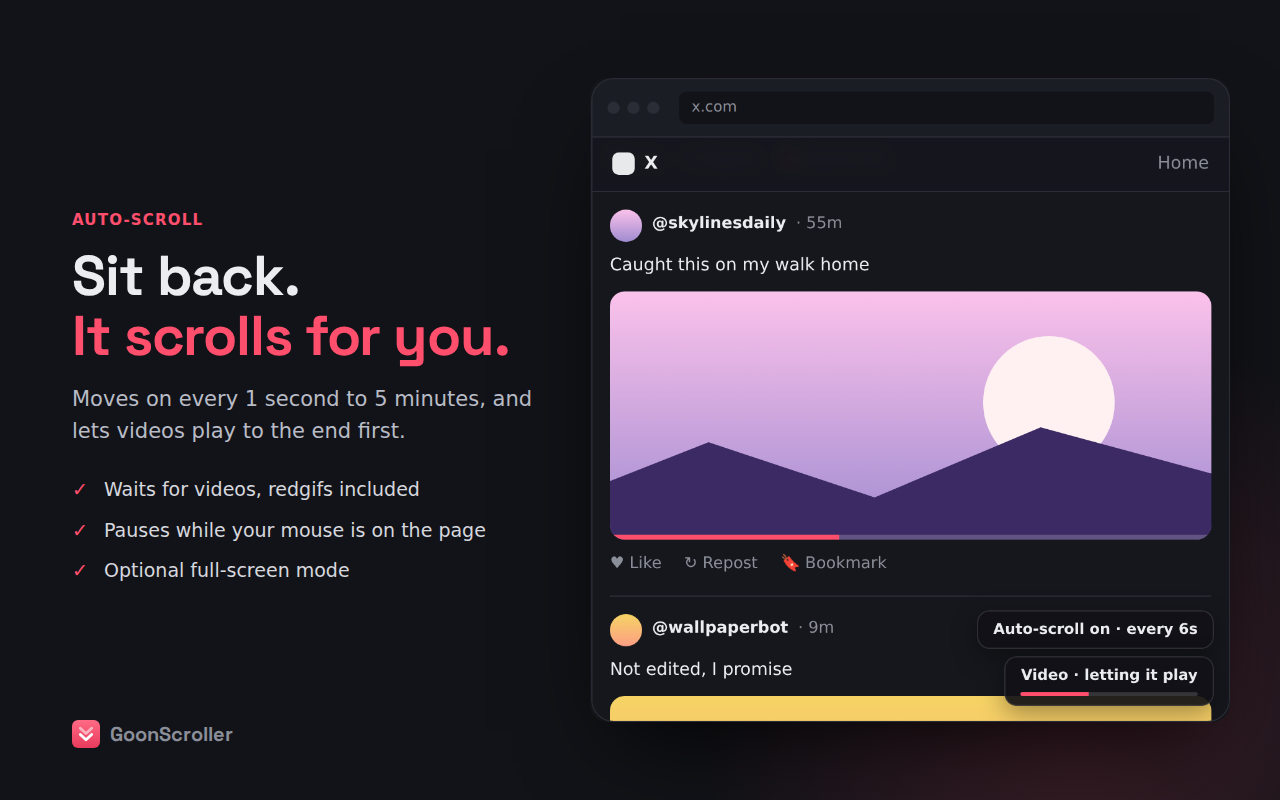
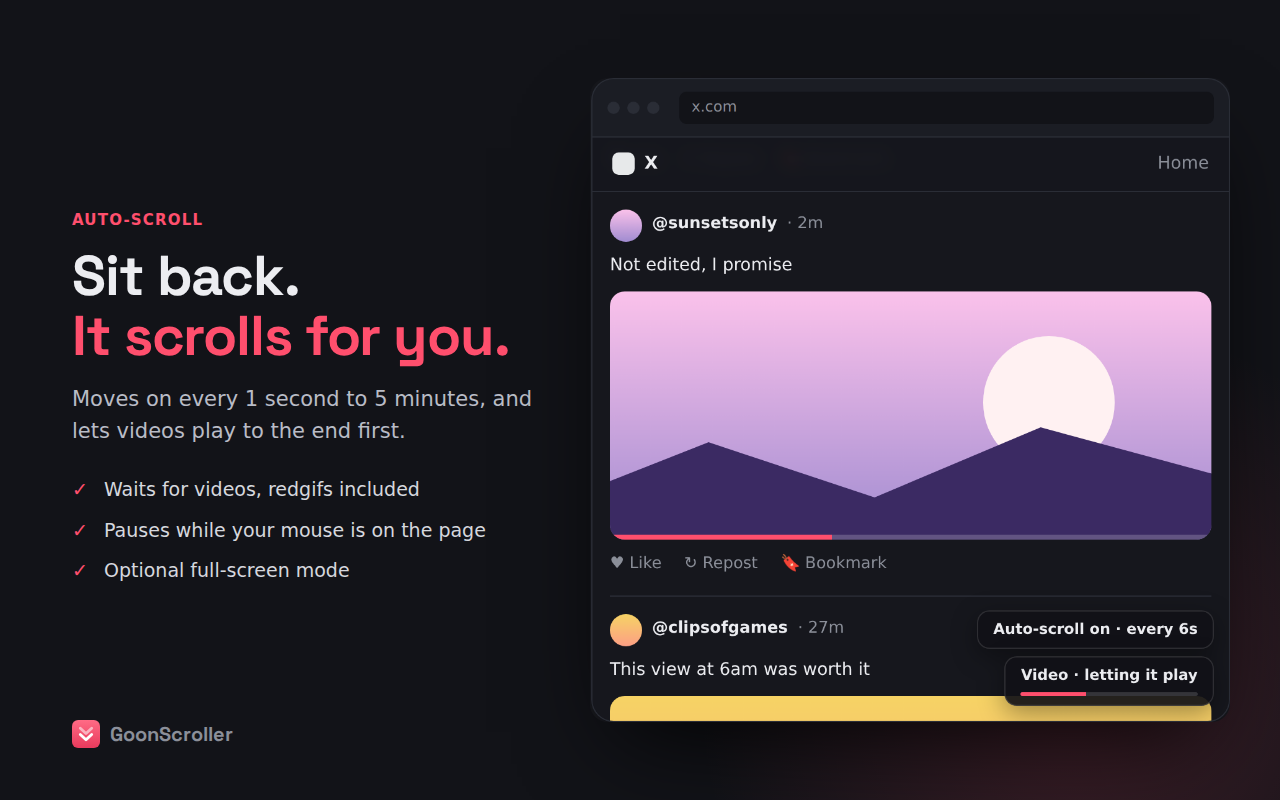
Drop the mouse-button tip from the store image and website
Claude-Session: https://claude.ai/code/session_01S1JCMXMC2WcSKAutSQKWsv

Changed region(s): [[0.4688, 0.25, 0.6875, 0.3438], [0.4688, 0.7812, 0.6875, 0.8438]]

diff --git a/site/index.html b/site/index.html
@@ -138,7 +138,7 @@
         <div class="keyrow" data-keys="ctrl shift 4" data-mac="meta shift 0"><span class="caps"></span><span>Next image in a gallery</span></div>
         <div class="keyrow" data-keys="arrowup arrowdown arrowleft arrowright" data-mac="arrowup arrowdown arrowleft arrowright"><span class="caps"></span><span>Optional page keys: posts and images</span></div>
       </div>
-      <p class="small center">Every action can get its own key: play/pause, open picture, like, save, faster, slower…<br />Put them on spare mouse buttons and you never let go of the mouse.</p>
+      <p class="small center">Every action can get its own key: play/pause, open picture, like, save, faster, slower…<br />Change any of them to whatever you like.</p>
     </section>
 
     <section class="section" id="privacy">
@@ -201,7 +201,7 @@
         <details><summary>Does it work on Firefox or my phone?</summary><p>No. It needs global hotkeys, and only desktop Chromium browsers have those: Chrome, Edge, Brave, Opera, Vivaldi.</p></details>
         <details><summary>Which sites?</summary><p>Reddit (new and old) and X/Twitter. Nothing else, on purpose.</p></details>
         <details><summary>I saved a Reddit post but the Save button didn't change?</summary><p>Reddit only shows it after a refresh. The post is saved; check your saved posts.</p></details>
-        <details><summary>Will the hotkeys mess with my game?</summary><p>Pick combinations your game doesn't use, like the default <kbd>Ctrl</kbd> <kbd>Shift</kbd> <kbd>1</kbd>–<kbd>4</kbd>, or put them on mouse buttons.</p></details>
+        <details><summary>Will the hotkeys mess with my game?</summary><p>Pick combinations your game doesn't use, like the default <kbd>Ctrl</kbd> <kbd>Shift</kbd> <kbd>1</kbd>–<kbd>4</kbd>, or change them to whatever you like.</p></details>
       </div>
     </section>
 
